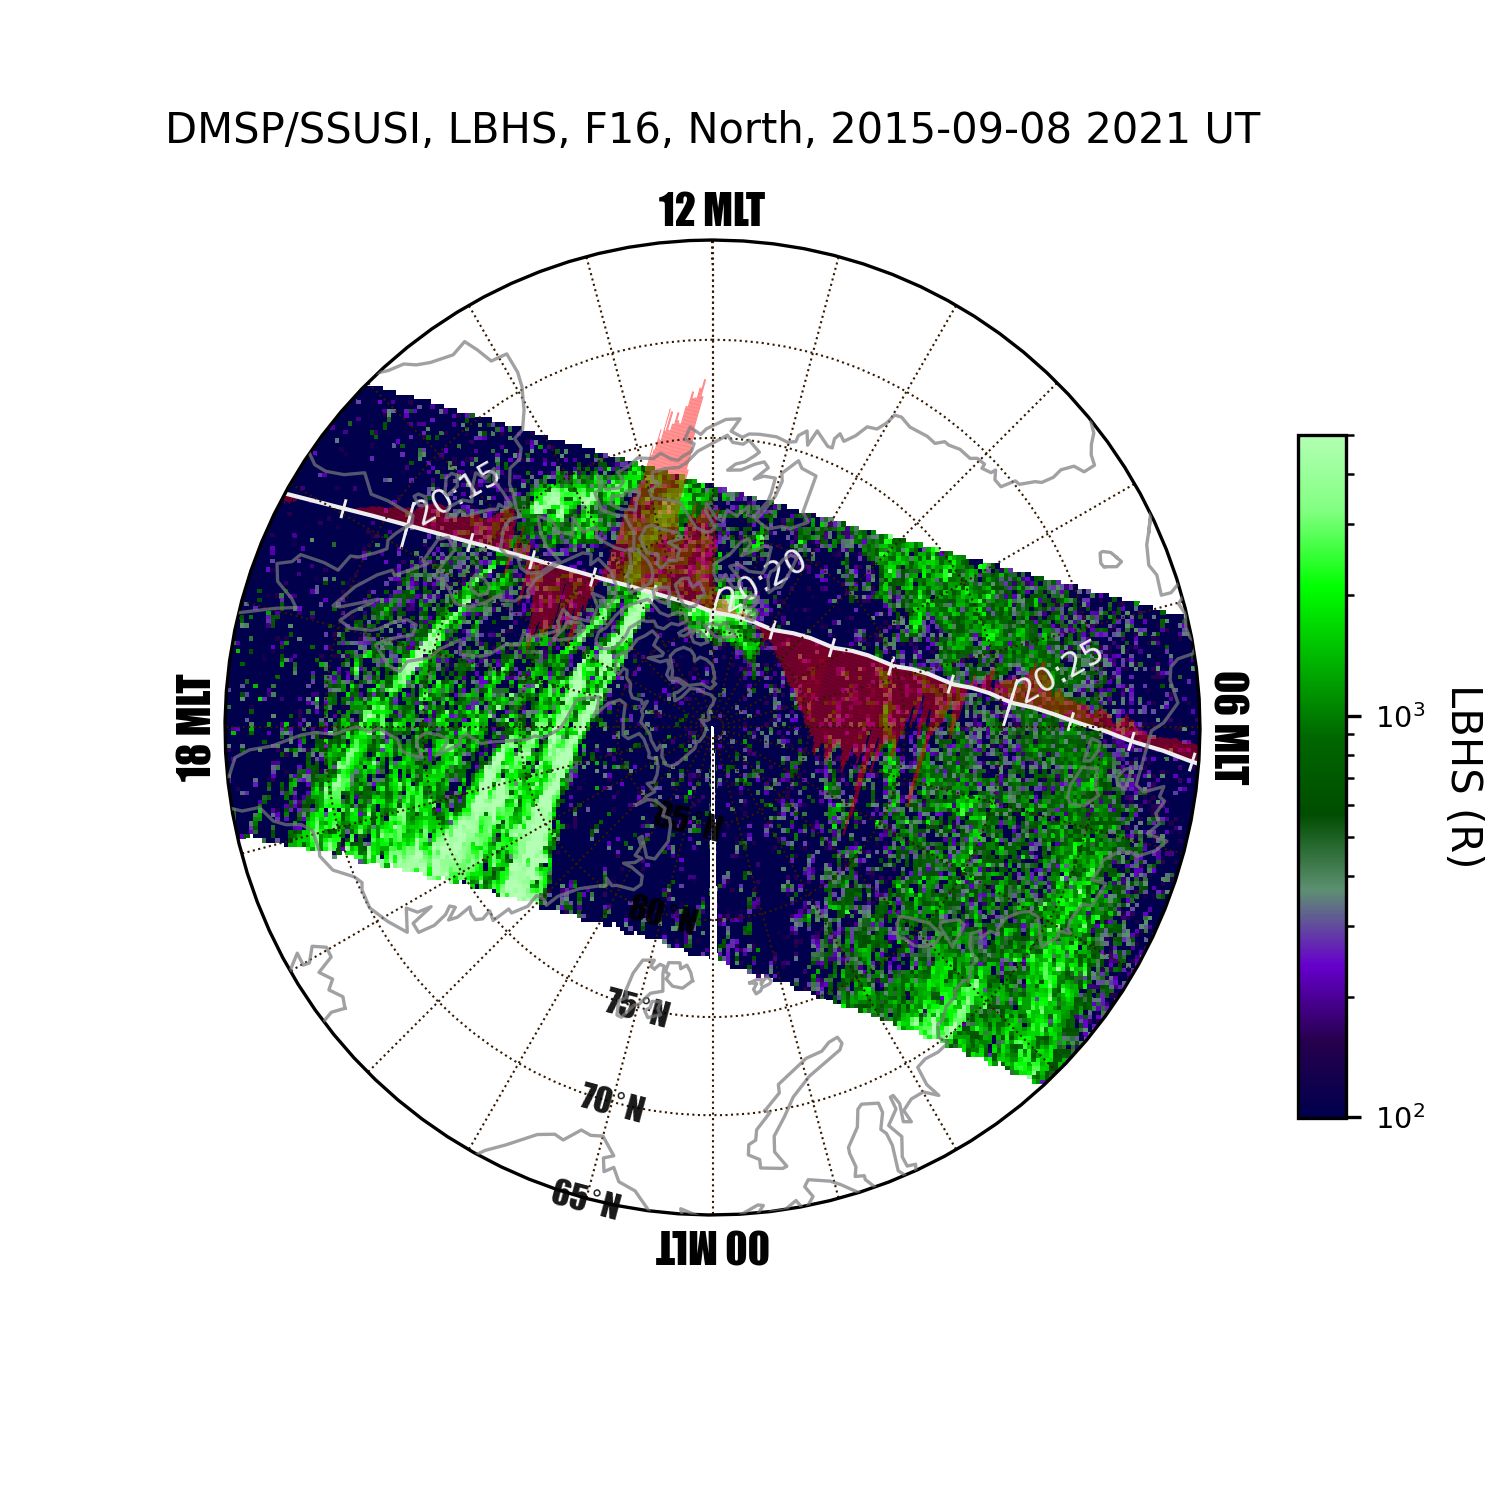
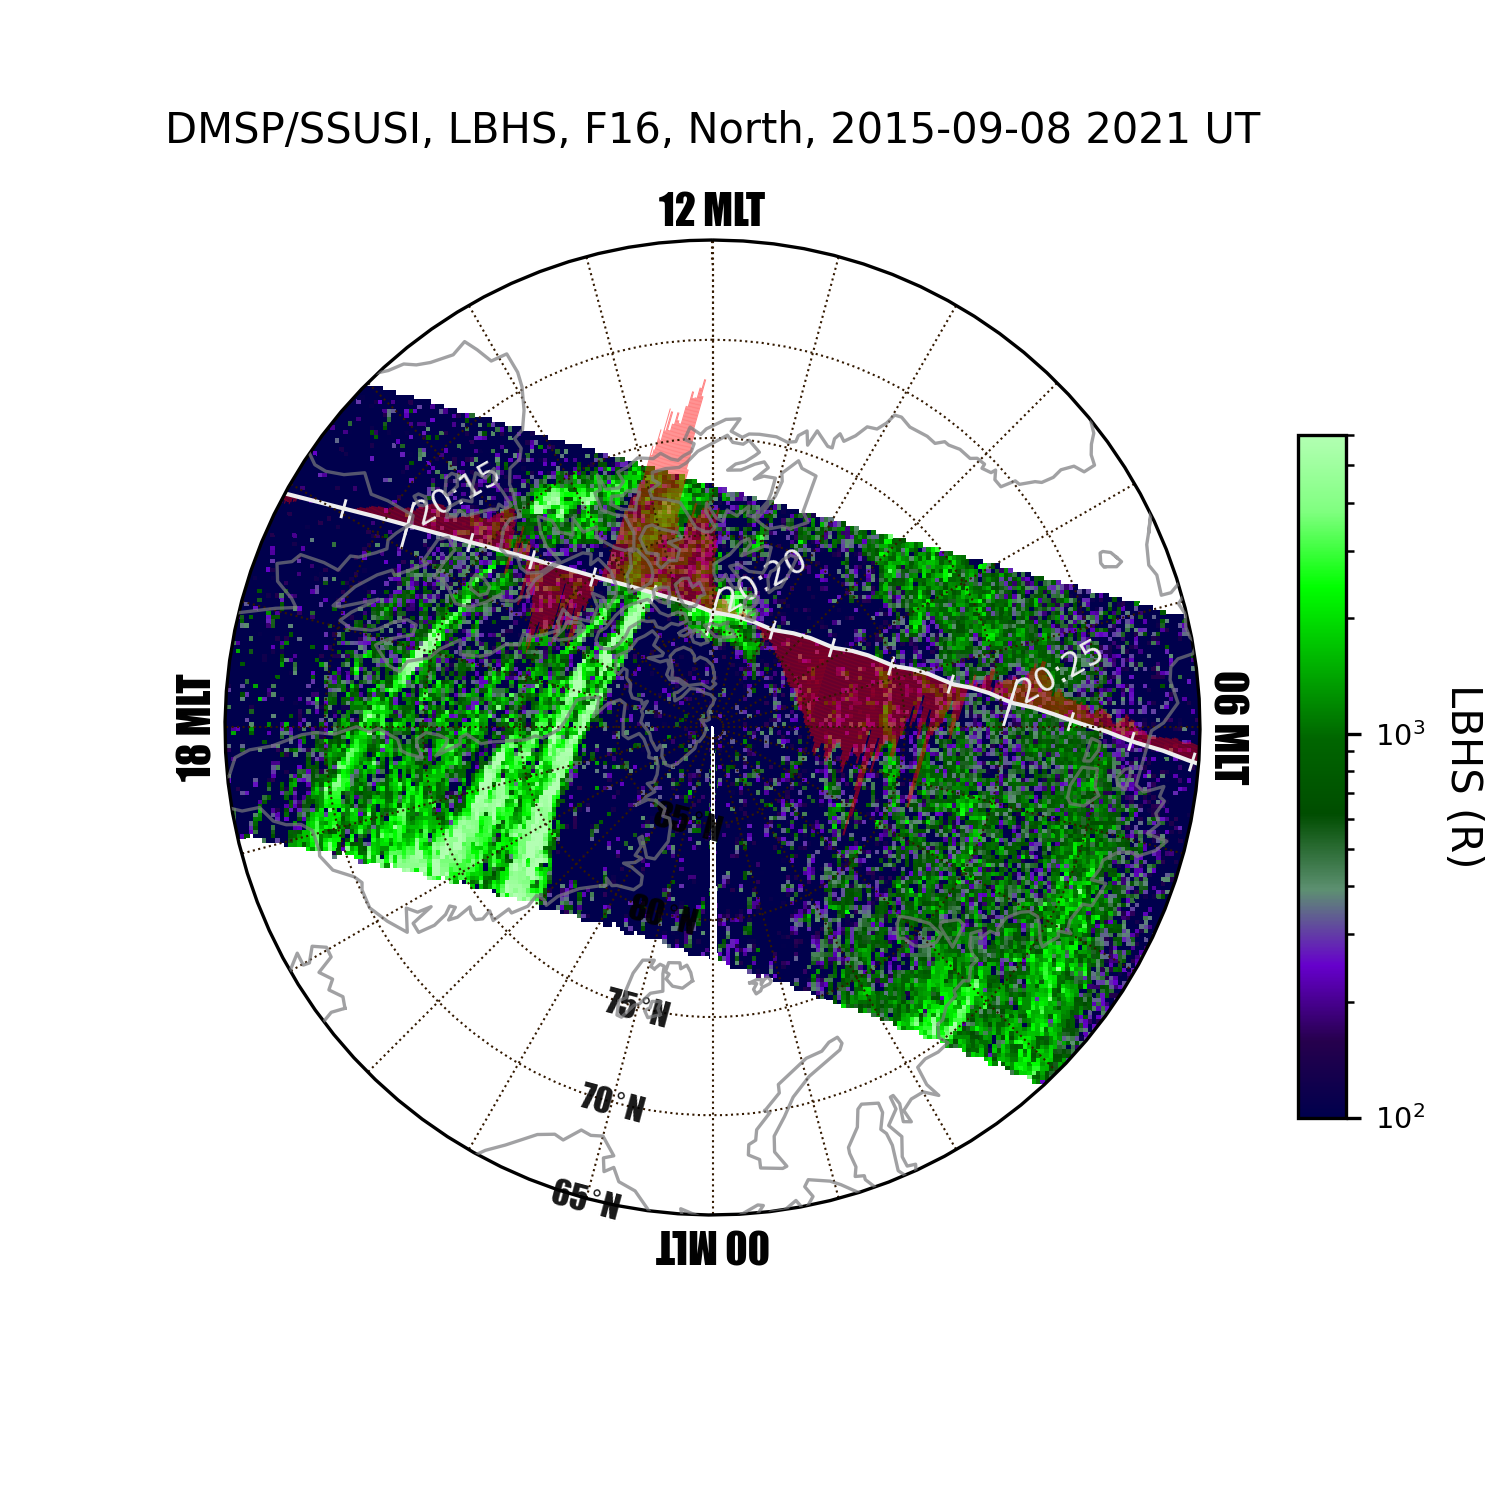
update

diff --git a/examples/demo_dmsp_ssusi_single_panel.py b/examples/demo_dmsp_ssusi_single_panel.py
@@ -47,7 +47,7 @@ def test_ssusi():
     pcolormesh_config = lbhs.visual.plot_config.pcolormesh
     colorbar_config = lbhs.visual.plot_config.colorbar
     pcolormesh_config.update(c_scale='log')
-    pcolormesh_config.update(c_lim=[100, 5000])
+    pcolormesh_config.update(c_lim=[100, 6000])
     import geospacelab.visualization.mpl.colormaps as cm
     cmap = cm.cmap_aurora()
     # cmap = 'viridis'
